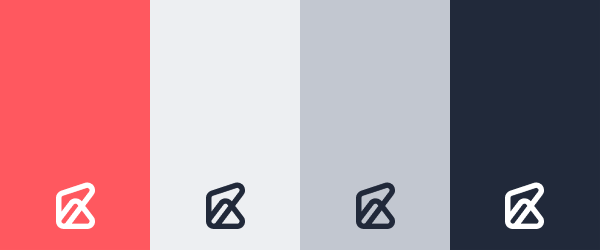
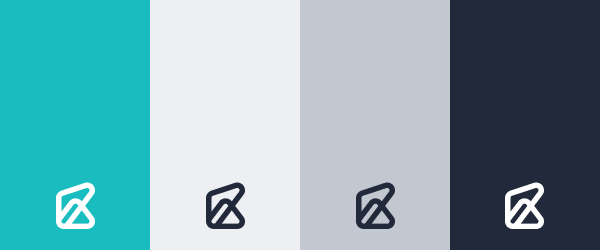
another color change

Changed region(s): [[0.0, 0.0, 0.27, 1.0]]

diff --git a/src/styles/theme.scss b/src/styles/theme.scss
@@ -1,23 +1,18 @@
 body {
   --footer-icon-stroke: var(--gray-200);
-  --footer-icon-fill-hover: var(--red-100);
-  --footer-icon-stroke-hover: var(--red-200);
+  --footer-icon-fill-hover: var(--green-100);
+  --footer-icon-stroke-hover: var(--green-200);
 
   --toggle-bg: var(--gray-400);
-  --toggle-thumb: var(--red-200);
+  --toggle-thumb: var(--green-200);
 
   --header-icon-fill: var(--gray-300);
   --header-icon-stroke: var(--gray-100);
 
-  --selection-bg: var(--red-200);
+  --selection-bg: var(--green-200);
   --selection-text: var(--white);
 
-  --tag-bg: var(--red-200);
-  --tag-text: var(--white);
-  --tag-hover: var(--red-300);
-
-  --text-link: var(--red-200);
-  --text-code: var(--red-200);
+  --blockquote-border: var(--green-200);
 }
 
 body.light {
@@ -28,11 +23,17 @@ body.light {
   --text-primary: var(--gray-500);
   --text-secondary: var(--gray-300);
 
-  --blockquote-border: var(--red-200);
   --blockquote-text: var(--gray-400);
 
   --card-bg: var(--gray-100);
   --card-border: var(--gray-200);
+
+  --text-link: var(--green-300);
+  --text-code: var(--green-300);
+
+  --tag-bg: var(--red-200);
+  --tag-text: var(--white);
+  --tag-hover: var(--red-300);
 }
 
 body.dark {
@@ -43,9 +44,15 @@ body.dark {
   --text-primary: var(--white);
   --text-secondary: var(--gray-200);
 
-  --blockquote-border: var(--red-200);
   --blockquote-text: var(--gray-200);
 
   --card-bg: var(--gray-400);
   --card-border: var(--gray-200);
+
+  --text-link: var(--green-200);
+  --text-code: var(--green-200);
+
+  --tag-bg: var(--green-200);
+  --tag-text: var(--gray-500);
+  --tag-hover: var(--green-300);
 }

diff --git a/src/styles/vars.scss b/src/styles/vars.scss
@@ -8,13 +8,13 @@
   --gray-400: #41495a;
   --gray-500: #21293a;
 
-  --green-100: hsl(168, 48%, 80%);
-  --green-200: hsl(172, 62%, 45%);
-  --green-300: hsl(172, 99%, 32%);
+  --green-100: hsl(168, 50%, 80%);
+  --green-200: hsl(181, 77%, 42%);
+  --green-300: hsl(181, 77%, 32%);
 
-  --red-100: hsl(357, 50%, 84%);
-  --red-200: hsl(357, 100%, 67%);
-  --red-300: hsl(357, 80%, 40%);
+  --red-100: hsl(2, 50%, 84%);
+  --red-200: hsl(2, 100%, 67%);
+  --red-300: hsl(2, 80%, 40%);
 
   --sans-serif: proxima-nova, system-ui, -apple-system, BlinkMacSystemFont,
     'Segoe UI', 'Roboto', 'Helvetica Neue', 'Arial', sans-serif;

diff --git a/src/html.js b/src/html.js
@@ -12,7 +12,7 @@ export default function HTML(props) {
           content="width=device-width, initial-scale=1, shrink-to-fit=no"
         />
         <meta httpEquiv="x-ua-compatible" content="ie=edge" />
-        <meta name="theme-color" content="#2CBAA7" />
+        <meta name="theme-color" content="#19bdbf" />
         {props.headComponents}
       </head>
       <body {...props.bodyAttributes} className="dark">
